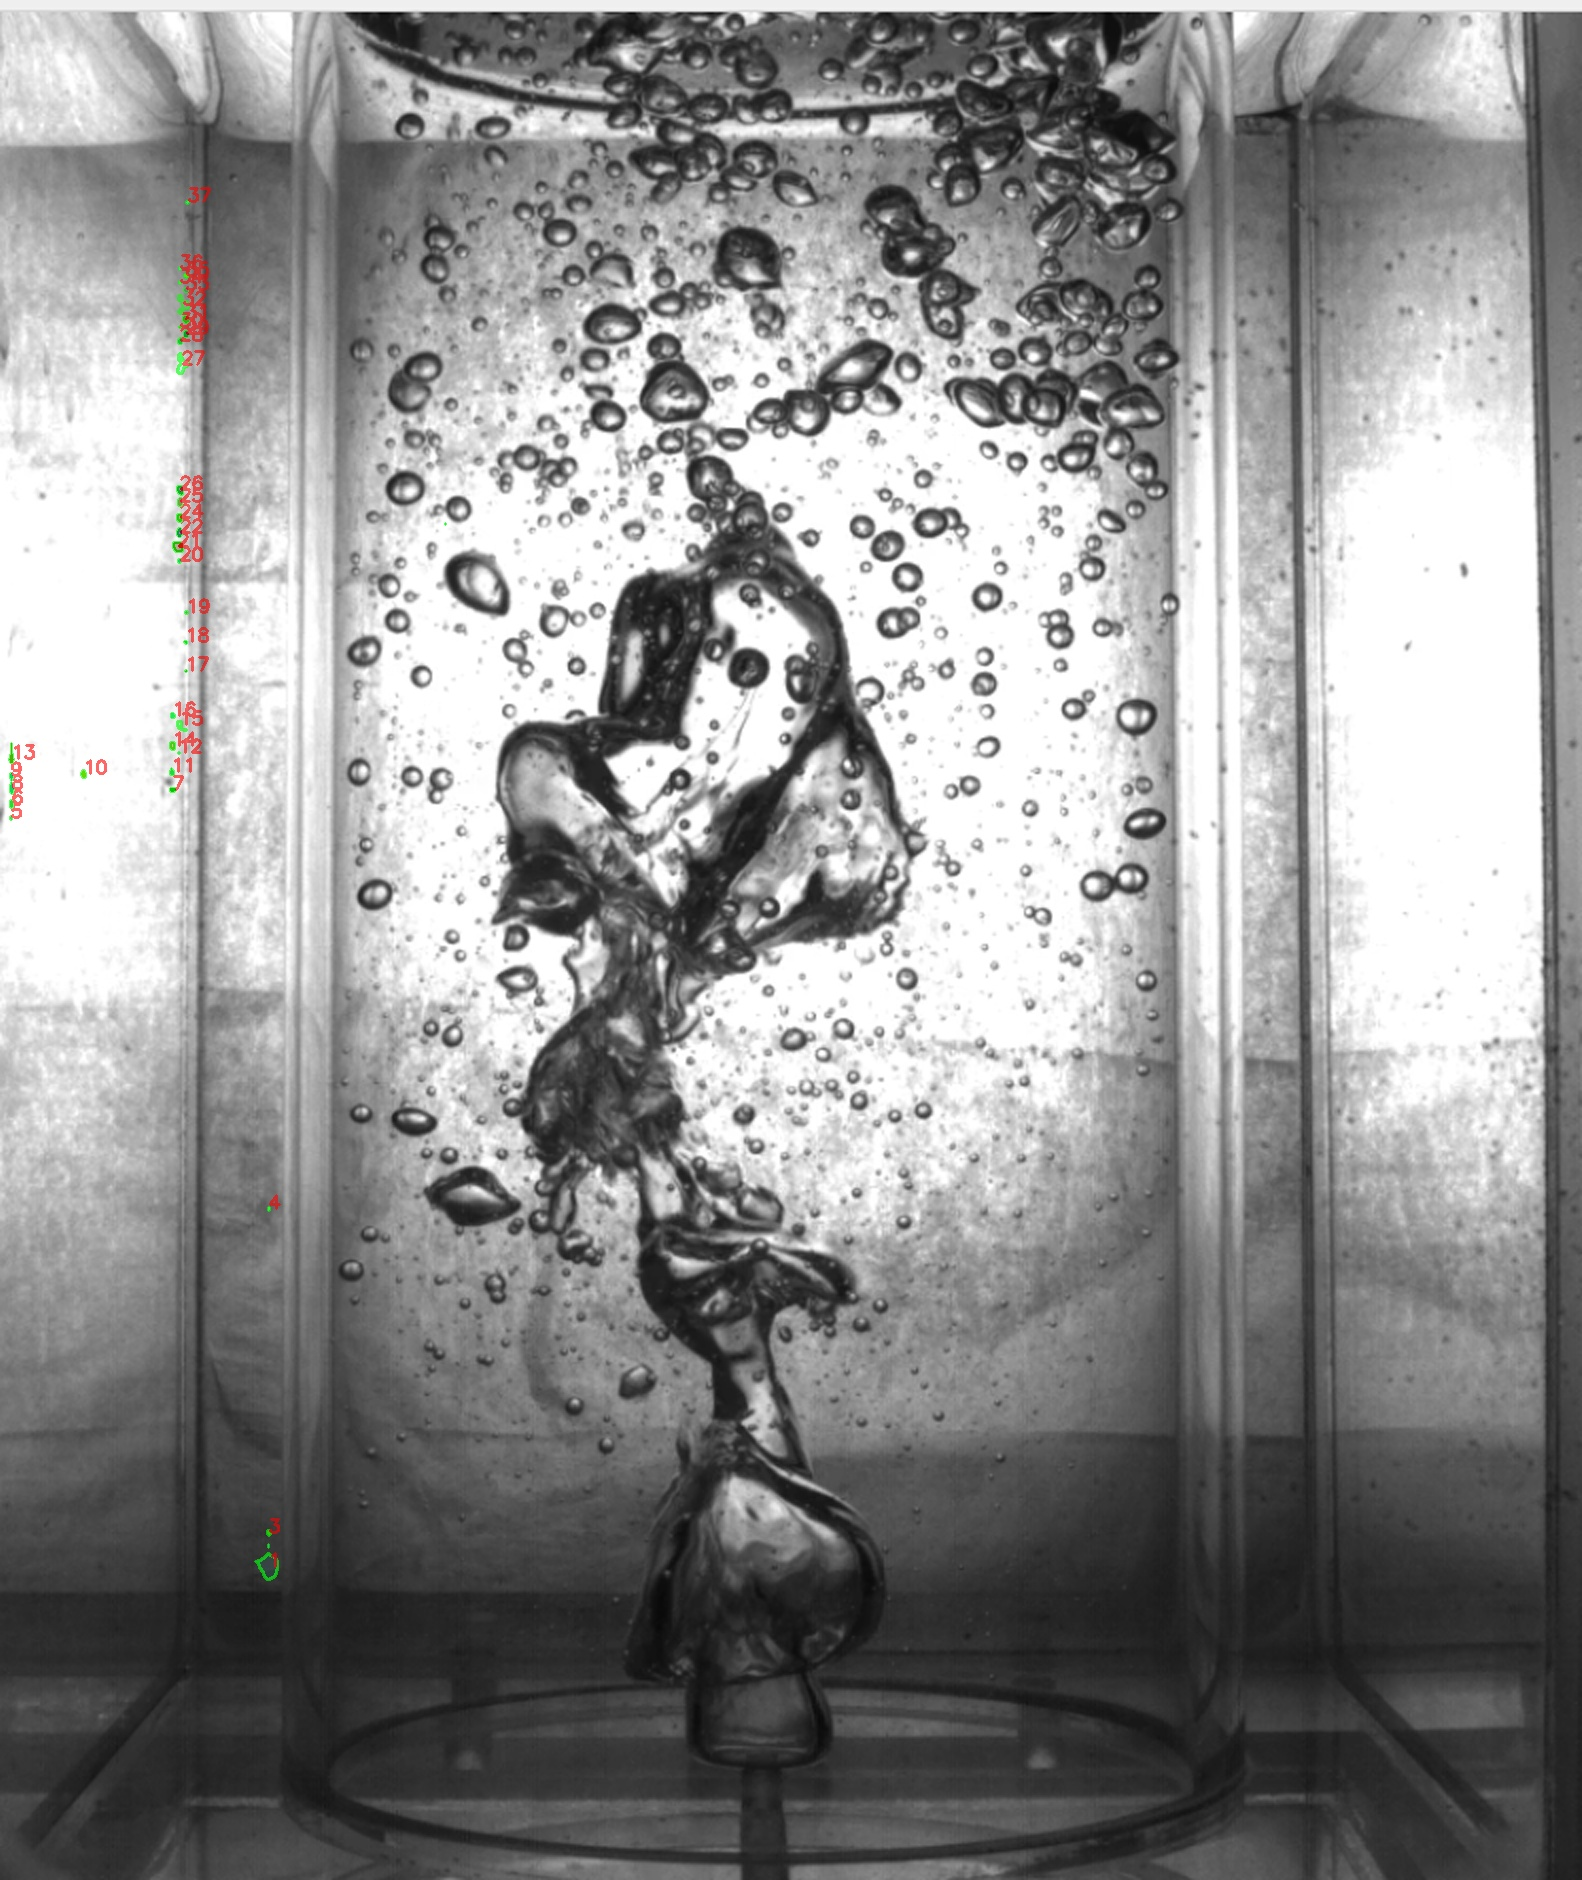
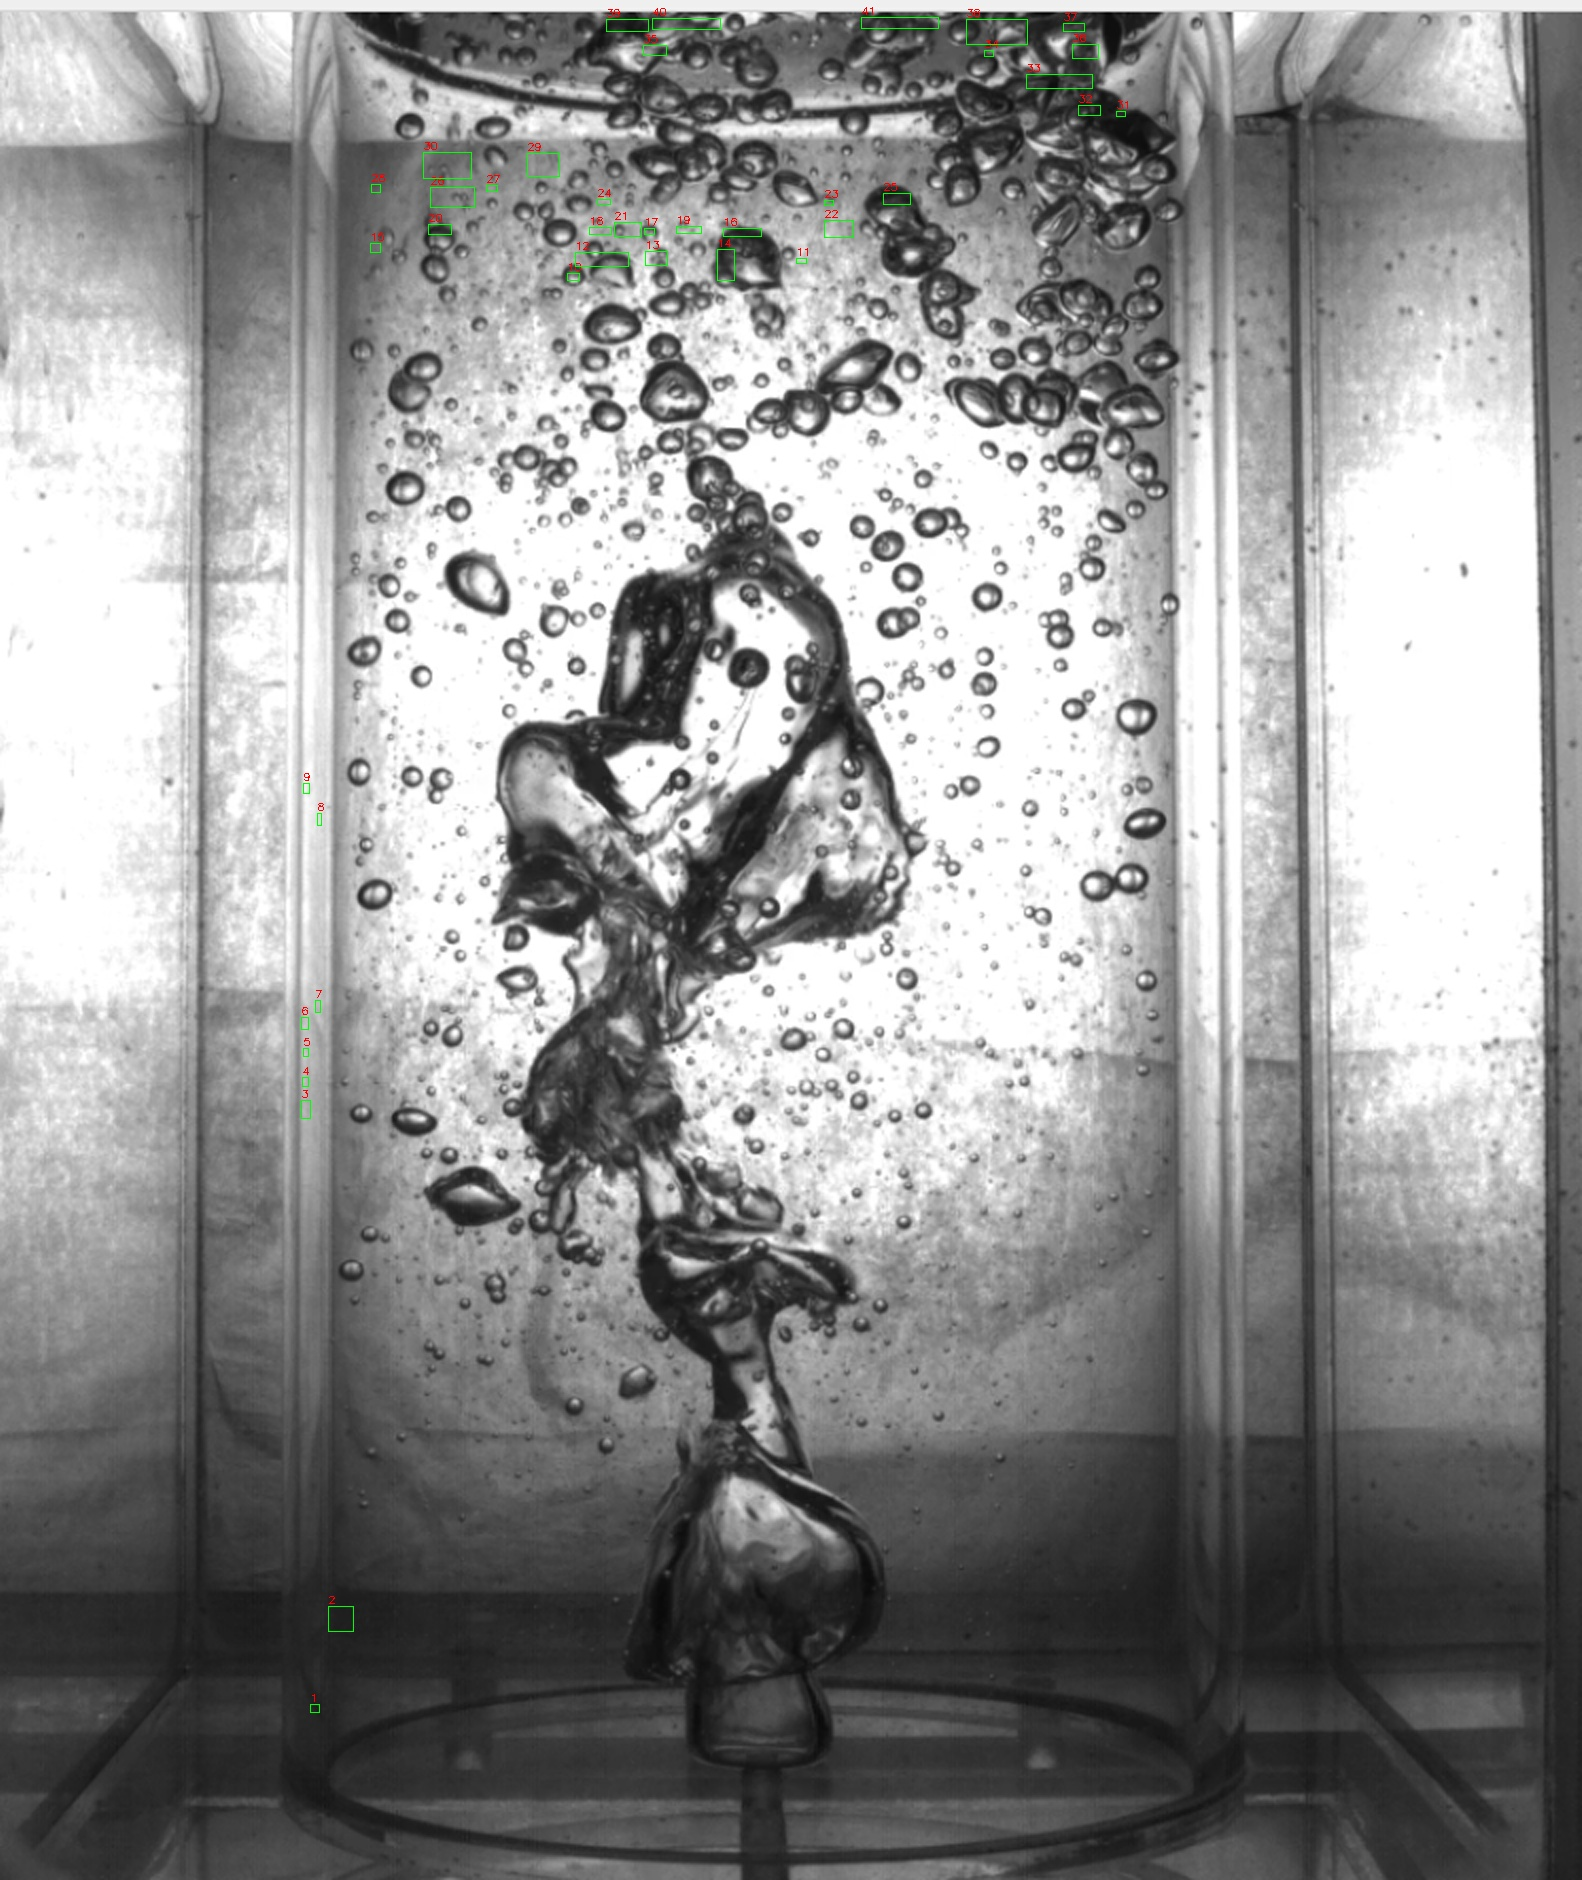
also bad, better to just tune the first one

diff --git a/v2/v2_segmentAnything.py b/v2/v2_segmentAnything.py
@@ -1,105 +1,159 @@
 import cv2
 import numpy as np
-import torch
 from segment_anything import sam_model_registry, SamPredictor
-import matplotlib.pyplot as plt
 
 # -----------------------
-# Load Image
+# USER PARAMETERS
 # -----------------------
-# image = cv2.imread("basic.jpeg")
-image = cv2.imread("050719-15scfh-250fps_C001H001S0001.png")
+
+IMAGE_PATH = "050719-15scfh-250fps_C001H001S0001.png"
+CHECKPOINT = "../defaultCheckpoint/sam_vit_b_01ec64.pth"
+
+OUTPUT_IMAGE = "highlightedBubbles.jpg"
+
+BOX = [168,150,610,875]  # region of interest
+
+UPSCALE = 2
+EDGE_THRESHOLD1 = 50
+EDGE_THRESHOLD2 = 150
+
+MIN_AREA = 20
+MAX_AREA = 1500
+
+PROMPT_STRIDE = 30   # distance between prompts along edges
+
+# -----------------------
+# LOAD IMAGE
+# -----------------------
+
+image = cv2.imread(IMAGE_PATH)
 image = cv2.cvtColor(image, cv2.COLOR_BGR2RGB)
-image = cv2.resize(image, None, fx=2, fy=2, interpolation=cv2.INTER_CUBIC)#upscale it
 
-# load SAM
-sam = sam_model_registry["vit_b"](checkpoint="../defaultCheckpoint/sam_vit_b_01ec64.pth")
-predictor = SamPredictor(sam)
+# upscale to help detect tiny features
+image = cv2.resize(image, None, fx=UPSCALE, fy=UPSCALE, interpolation=cv2.INTER_CUBIC)
+
+x1,y1,x2,y2 = [v*UPSCALE for v in BOX]
+
+# -----------------------
+# EDGE DETECTION
+# -----------------------
+
+gray = cv2.cvtColor(image, cv2.COLOR_RGB2GRAY)
+
+edges = cv2.Canny(gray, EDGE_THRESHOLD1, EDGE_THRESHOLD2)
+
+roi_edges = edges[y1:y2, x1:x2]
+
+edge_points = np.column_stack(np.where(roi_edges > 0))
+
+# convert to full image coordinates
+edge_points[:,0] += y1
+edge_points[:,1] += x1
+
+# reduce density
+edge_points = edge_points[::PROMPT_STRIDE]
+
+print("Prompt points:", len(edge_points))
+
+# -----------------------
+# LOAD SAM
+# -----------------------
+
+sam = sam_model_registry["vit_b"](checkpoint=CHECKPOINT)
 sam.to(device="cpu")
+
+predictor = SamPredictor(sam)
 predictor.set_image(image)
 
-# bounding box prompt
-input_box = np.array([168,150,610,875])
+# -----------------------
+# RUN SAM PROMPTS
+# -----------------------
 
-# predict mask
-masks, scores, logits = predictor.predict(
-    box=input_box,
-    multimask_output=False
+all_masks = []
+
+for y,x in edge_points:
+
+    point = np.array([[x,y]])
+    label = np.array([1])
+
+    masks, scores, logits = predictor.predict(
+        point_coords=point,
+        point_labels=label,
+        box=np.array([x1,y1,x2,y2]),
+        multimask_output=False
+    )
+
+    all_masks.append(masks[0])
+
+print("SAM predictions:", len(all_masks))
+
+# -----------------------
+# COMBINE MASKS
+# -----------------------
+
+combined_mask = np.zeros_like(all_masks[0], dtype=np.uint8)
+
+for m in all_masks:
+    combined_mask = np.logical_or(combined_mask, m)
+
+combined_mask = (combined_mask.astype(np.uint8))*255
+
+# -----------------------
+# CONTOUR DETECTION
+# -----------------------
+
+contours,_ = cv2.findContours(
+    combined_mask,
+    cv2.RETR_EXTERNAL,
+    cv2.CHAIN_APPROX_SIMPLE
 )
 
-mask = masks[0]
+print("Raw contours:", len(contours))
 
-print(f"Total masks detected: {len(masks)}")
+output = image.copy()
+
+diameters = []
+count = 0
+
+for cnt in contours:
+
+    area = cv2.contourArea(cnt)
+
+    if area < MIN_AREA or area > MAX_AREA:
+        continue
+
+    perimeter = cv2.arcLength(cnt,True)
+
+    if perimeter == 0:
+        continue
+
+    diameter = 4*area/perimeter
+    diameters.append(diameter)
+
+    count += 1
+
+    x,y,w,h = cv2.boundingRect(cnt)
+
+    cv2.rectangle(output,(x,y),(x+w,y+h),(0,255,0),1)
+
+    cv2.putText(
+        output,
+        str(count),
+        (x,y-3),
+        cv2.FONT_HERSHEY_SIMPLEX,
+        0.35,
+        (255,0,0),
+        1
+    )
+
+print("Detected features:", count)
 
 # -----------------------
-# Create overlay image
+# SAVE OUTPUT
 # -----------------------
-output_image = image.copy()
-overlay = image.copy()
 
-bubble_count = 0
-d=[]
-for mask_data in masks:
-    mask = mask.astype(np.uint8)
+output_bgr = cv2.cvtColor(output, cv2.COLOR_RGB2BGR)
 
-    contours, _ = cv2.findContours(mask, cv2.RETR_EXTERNAL, cv2.CHAIN_APPROX_SIMPLE)
-    print('running...')
-    for cnt in contours:
-        area = cv2.contourArea(cnt)
-        if area > 1500:
-            continue
+cv2.imwrite(OUTPUT_IMAGE, output_bgr)
 
-        perimeter = cv2.arcLength(cnt, True)
-        if perimeter == 0:
-            continue
-        d.append(4*area/perimeter)
-        # circularity = 4 * np.pi * (area / (perimeter ** 2))
-
-        # if circularity > 0.75:
-        bubble_count += 1
-
-        # Random color for each bubble
-        color = np.random.randint(0, 255, size=3).tolist()
-
-        # Fill bubble area
-        cv2.drawContours(overlay, [cnt], -1, color, -1)
-
-        # Draw outline
-        cv2.drawContours(output_image, [cnt], -1, (0, 255, 0), 2)
-
-        # Label bubble number
-        M = cv2.moments(cnt)
-        if M["m00"] != 0:
-            cx = int(M["m10"] / M["m00"])
-            cy = int(M["m01"] / M["m00"])
-            cv2.putText(output_image, str(bubble_count), 
-                        (cx, cy), 
-                        cv2.FONT_HERSHEY_SIMPLEX, 
-                        0.6, 
-                        (255, 0, 0), 
-                        2)
-
-# Blend overlay with original image
-alpha = 0.4
-output_image = cv2.addWeighted(overlay, alpha, output_image, 1 - alpha, 0)
-
-print(f"\nEstimated number of bubbles: {bubble_count}")
-
-# Convert back to BGR for saving
-output_bgr = cv2.cvtColor(output_image, cv2.COLOR_RGB2BGR)
-
-cv2.imwrite("highlightedBubbles.jpg", output_bgr)
-
-d=np.array(d)
-
-plt.figure()
-
-plt.hist(d, bins=31)
-
-plt.xlabel("diameter, pixels")
-
-plt.ylabel("Frequency")
-
-plt.title("Histogram Distribution (31 Bins)")
-
-plt.savefig('hist.jpg',dpi=300)
+print("Saved labeled image:", OUTPUT_IMAGE)
